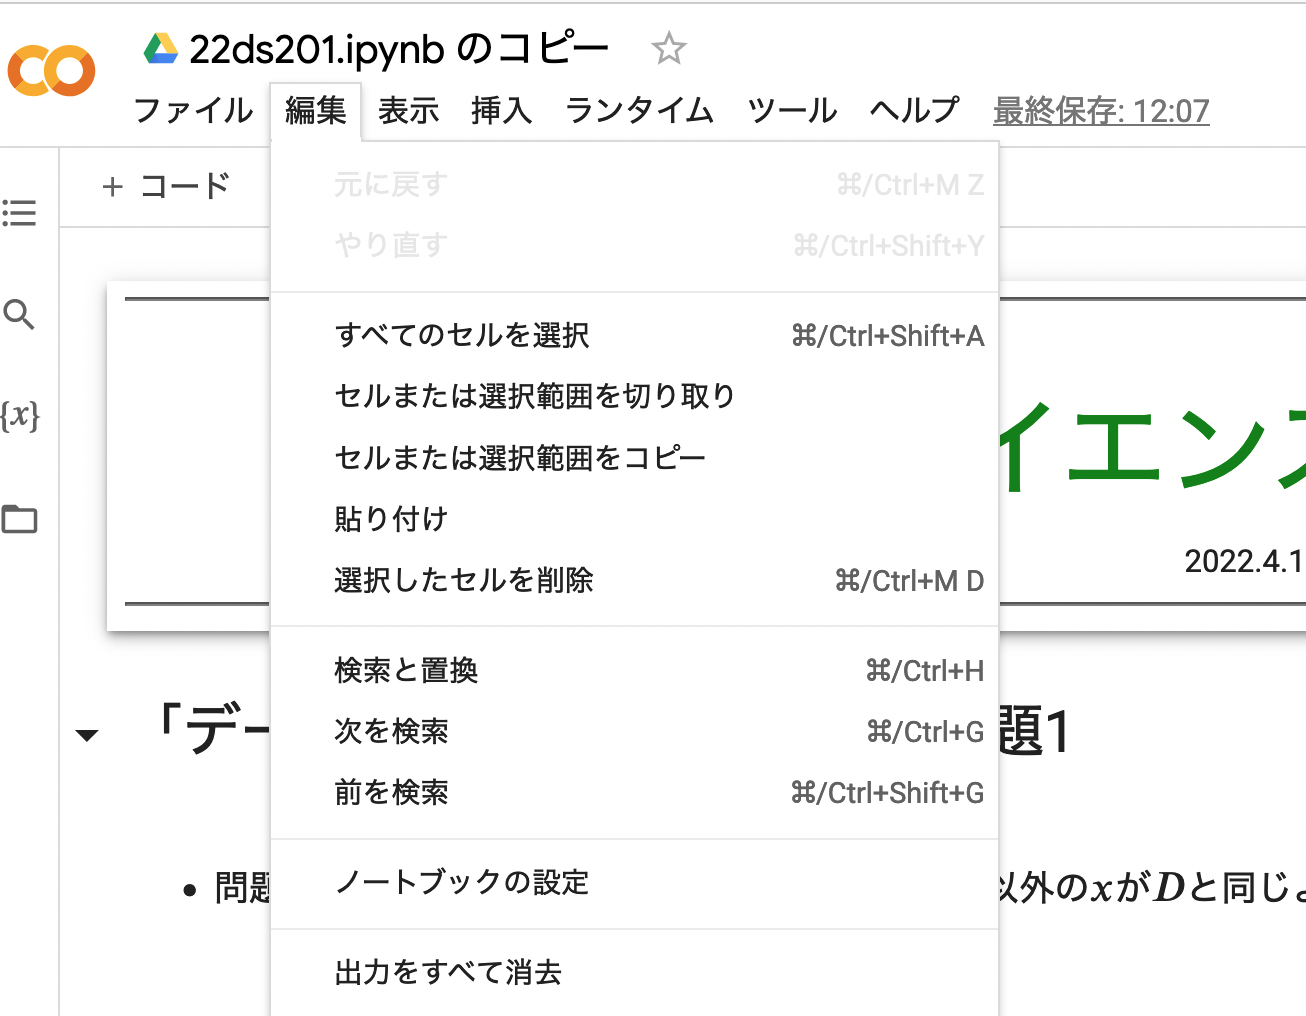
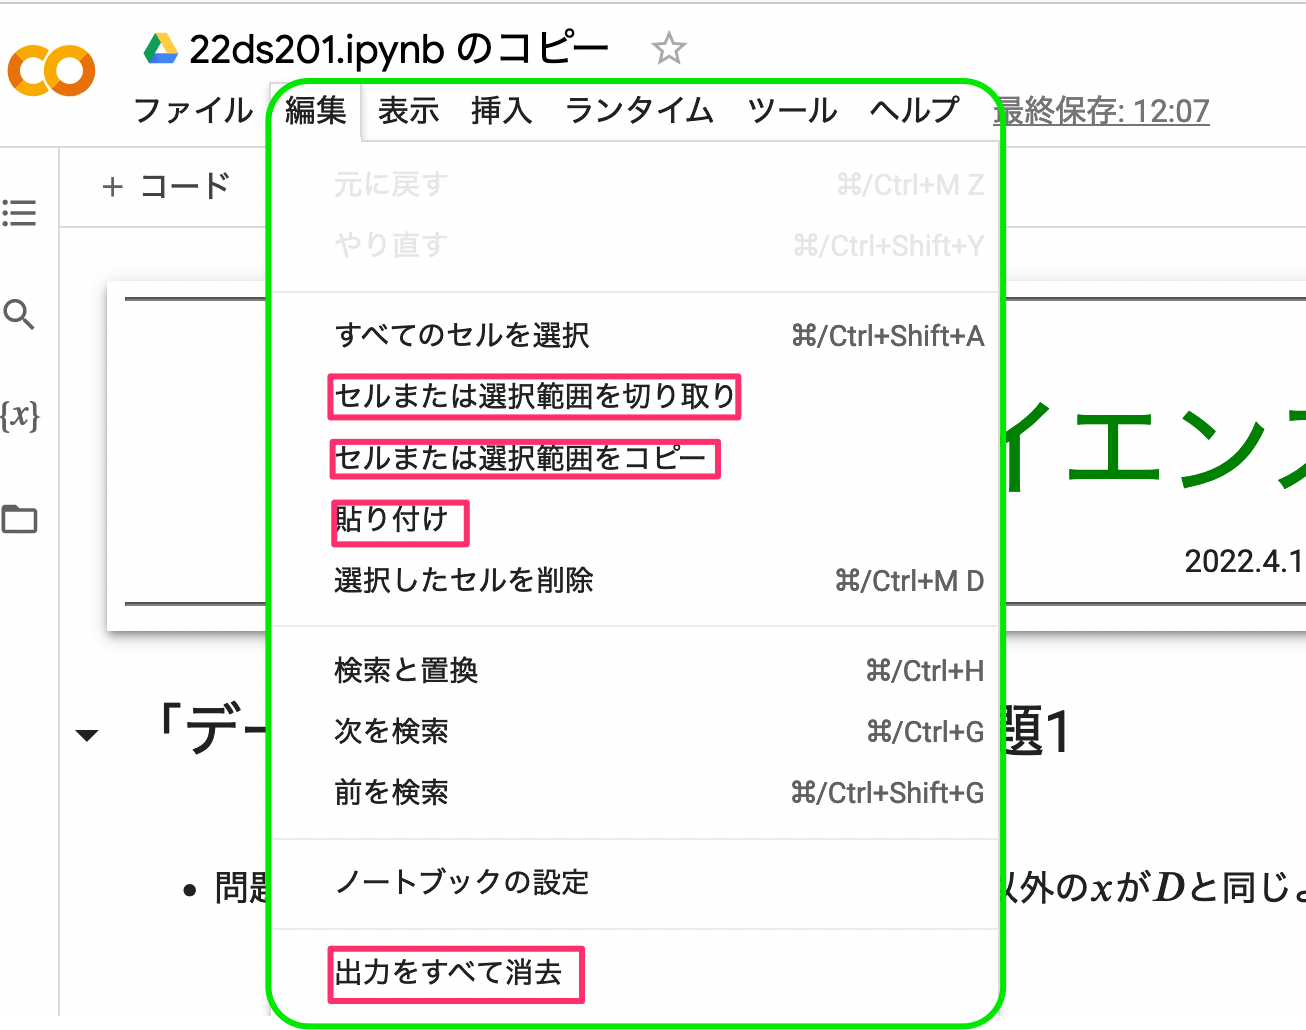
google colab notebookの使いかた

diff --git a/22ds2/google_colab_intro_2.md b/22ds2/google_colab_intro_2.md
@@ -1,0 +1,88 @@
+# Google Colaborator の基本的な使いかた
+
+## 初級. 基本的セル操作
++ 概要. 使い方はjupyter notebook とほぼ同じである。セルにはテキストセルとコードセルとがある。プログラムはコードセルに入力し、説明やコメントなどはテキストセルに入力する。コードセルを「実行」するとプログラムが実行され結果が出力セルに表示される。テキストセルを実行すると内容が整形されて表示される。
+
++ (セルの実行) セルをクリックして焦点セルにする。上下矢印でも焦点セルを変更できる。
+
+    + 焦点のコードセルを実行するには、行頭の黒丸に▶の印をクリックする。あるいは、`Shift+改行`
+	+ 焦点のテキストセルを整形するには `Shift+改行`。テキストセルを編集するにはダブルクリックする。
+
++ (セルの作成) 選択したセルの少し下にカーソルを置くと`＋コード、＋テキスト` と表示されるので、クリックすると次行にセルが作成される。
+
+    + 上に作成するには、選択したセルの少し上にカーソルをおけばよい.
+
+    + コードセルをテキストセルに変換するには`⌘MM`、テキストセルをコードセルに変換するには`⌘MY`. 
+
++ (セルの削除) 選択したセルを削除するには、セル右上にあるメニューのゴミ箱をクリックする.  
+
++ (目次の表示) 左の垂直メニューの目次アイコンのクリックで、目次パネルの表示・非表示ができる。
+
++ コードセルで
+
+   + 選択行をインデントは`TAB`、選択行のインデントの解除は `Shift+Tab`
+
+   + 選択行をコメントする・コメントを外す `⌘/`
+
+## 初級. ノートブックの基本操作
++ (名称変更) メニュー＞ ファイル＞ 名前の変更
+
++ (コピーの作成) メニュー＞ ファイル＞ ドライブにコピーを保存
+    + そのあと「新しいタブで開く」クリック
+
++ (保存) メニュー＞ ファイル＞ 保存
+
++ (自分のPCにダウンロード) メニュー＞ ファイル＞ ダウンロード
+
+<center><img src="../img/menu_file.png" width=500></center>
+
+<!-- ## メニュー＞編集 -->
+<!-- <center><img src="../img/menu_edit.png" width=500></center> -->
+
+<!-- ## メニュー＞表示 -->
+<!-- <img src="../img/menu_hyouji.png" width=500> -->
+
+## 初級. メニュー＞ランタイム
+<center><img src="../img/menu_runtime.png" width=500></center>
+
+<!-- ## メニュー＞ツール -->
+<!-- <img src="../img/menu_tool.png" width=500> -->
+
+
+## 中級. セル操作(2) 
++ セルの選択
+
+    + 焦点セルを選択する: `[Ctr][Shift]S` (セルが青色になる)
+
+    + 複数セルの選択. 焦点セルからShiftを押しながら矢印を押す. 選択されたセルが青色となる。
+
+    + 選択を解除するにはどこかをクリックすればよい.
+
++ 選択セルの操作
+
+    + (コピー) `メニュー＞編集＞セルまたは選択範囲をコピー`  ( `⌘C` )
+
+    + (カット) `メニュー＞編集＞セルまたは選択範囲を切り取り`
+
+    + (ペースト)`メニュー＞編集＞貼り付け` ( `⌘V` )
+
+    + １セルに結合. 右のメニューの縦３点アイコンをクリックし「セルを結合する」を選択 .
+	
++ コードセルの行番号の表示・非表示 `⌘ML`
+
++ (参考) 焦点セルを下のセルと結合. 
+`メニュー＞ツール＞コマンドパレット＞選択したセルを次のセルに結合`
+  (キーボードショートカットで `⌘M1`などに設定すると便利 )
+	   
++ セルの分割. 分割する位置にカーソルを置いて `⌘M-` (-はマイナス)
+
+## 上級
++ キーボードショートカット. 
+`メニュー＞ツール＞キーボードショートカット`で、よく使う操作にキーを割り当てることができる。
+
++ 例. 緑のものはよく使うもの. 赤は設定例.
+
+<!-- <center><img src="../img/googlecolab_kbdshortcut.png" width=500></center> -->
+<center><img src="../img/googlecolab_kbdshortcut_2.png" width=1000></center>
+
+<center><img src="../img/googlecolab_kbdshortcut_3.png" width=1000></center>
